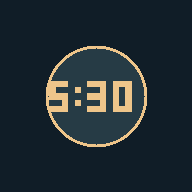
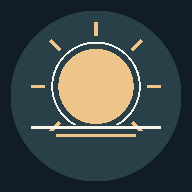
Make public app generic; document on-device privacy; refresh neutral branding

diff --git a/sw.js b/sw.js
@@ -1,1 +1,1 @@
-const CACHE='atomic-habits-v1';const ASSETS=['./','./index.html','./manifest.webmanifest','./icon-192.png','./icon-512.png'];self.addEventListener('install',e=>{e.waitUntil(caches.open(CACHE).then(c=>c.addAll(ASSETS)));self.skipWaiting()});self.addEventListener('activate',e=>{e.waitUntil(caches.keys().then(keys=>Promise.all(keys.filter(k=>k.startsWith('atomic-habits-')&&k!==CACHE).map(k=>caches.delete(k)))).then(()=>self.clients.claim()))});self.addEventListener('fetch',e=>{if(e.request.method!=='GET'||new URL(e.request.url).origin!==self.location.origin)return;e.respondWith(fetch(e.request).catch(()=>caches.match(e.request).then(r=>r||(e.request.mode==='navigate'?caches.match('./index.html'):Response.error()))))});
+const CACHE='atomic-habits-v2';const ASSETS=['./','./index.html','./manifest.webmanifest','./icon-192.png','./icon-512.png'];self.addEventListener('install',e=>{e.waitUntil(caches.open(CACHE).then(c=>c.addAll(ASSETS)));self.skipWaiting()});self.addEventListener('activate',e=>{e.waitUntil(caches.keys().then(keys=>Promise.all(keys.filter(k=>k.startsWith('atomic-habits-')&&k!==CACHE).map(k=>caches.delete(k)))).then(()=>self.clients.claim()))});self.addEventListener('fetch',e=>{if(e.request.method!=='GET'||new URL(e.request.url).origin!==self.location.origin)return;e.respondWith(fetch(e.request).catch(()=>caches.match(e.request).then(r=>r||(e.request.mode==='navigate'?caches.match('./index.html'):Response.error()))))});

diff --git a/README.md b/README.md
@@ -1,9 +1,29 @@
-# Atomic Habits — 05:30
-Aplicación web móvil (PWA) sin dependencias ni servidor. Registra hora de levantarse, sueño estimado, descansos, plan gradual de 21 días, historial, rachas y copias JSON.
+# Atomic Habits — Despertar
 
-## Publicar en GitHub Pages
-En Settings → Pages → Build and deployment, selecciona Deploy from a branch, main y / (root). Guarda. GitHub Pages gratuito requiere un repositorio público; los privados requieren un plan compatible. La URL de publicación aparece en Settings → Pages.
-En Safari del iPhone: Compartir → Añadir a pantalla de inicio. Tras una primera carga en línea, la aplicación funciona sin conexión.
+Aplicación web progresiva (PWA), gratuita y sin dependencias, para seguir un hábito de despertar temprano. Diseñada para uso individual desde el móvil: cada persona elige su horario; el repositorio **no contiene información ni registros de usuarios**.
+
+## Funciones
+- Configurar una hora objetivo, una hora habitual de partida y un objetivo orientativo de horas de descanso.
+- Elegir adaptación progresiva o comenzar directamente con la meta.
+- Registrar hora de despertar, hora de acostarse (opcional), días de recuperación y notas.
+- Ver el reto de 21 días, porcentaje de cumplimiento, rachas, historial y estimaciones de descanso.
+- Exportar e importar una copia de seguridad JSON.
+- Instalarla en la pantalla de inicio del móvil y utilizarla sin conexión tras la primera carga.
+
+## Publicación
+Este repositorio contiene solo el **código estático**. Para publicar desde GitHub Pages: `Settings → Pages → Deploy from a branch → main → / (root) → Save`. La dirección resultante aparecerá en GitHub Pages. No hace falta servidor de base de datos.
+
+## Uso en iPhone
+Abre la web publicada en Safari y pulsa `Compartir → Añadir a pantalla de inicio`. Inicia el registro **desde la app instalada** si quieres mantener todos los datos dentro de esa app. En iOS, Safari y una web añadida a la pantalla de inicio pueden tener contenedores de almacenamiento diferentes.
+
+Abre «Configuración y copia de seguridad» y personaliza tu hora objetivo. Los horarios que vienen por defecto son solo ejemplos; los valores que introduzcas **no se publican**.
 
 ## Privacidad y límites
-No hay datos personales en el código. Los registros quedan en localStorage del navegador; no se suben a GitHub. No hay sincronización entre dispositivos, Garmin ni alarmas. Exporta tu copia JSON antes de borrar datos del navegador. Los días sin registro no se cuentan en el porcentaje, pero interrumpen la racha; los días de recuperación no cuentan para el reto ni interrumpen la racha. Cambiar el plan recalcula los objetivos anteriores.
+- Los registros se almacenan en `localStorage` del navegador/dispositivo; **no hay servidor, cuenta, cookies analíticas, telemetría ni envío de registros a GitHub**.
+- GitHub Pages sirve los archivos públicos del proyecto. El proveedor puede recibir solicitudes técnicas normales al cargar la web, pero **no recibe tus registros** mediante esta aplicación.
+- No hay sincronización automática entre dispositivos. Cada navegador y cada instalación guardan sus propios registros.
+- Si borras los datos de la app/navegador, desinstalas la app o cambias de móvil, puedes perder los registros. Usa «Exportar copia JSON» para conservarlos y «Importar copia» para restaurarlos.
+- La exportación guarda un archivo donde la persona decida; si lo guarda en un servicio en la nube, ese archivo ya queda fuera del almacenamiento exclusivamente local.
+- Las horas de sueño son estimadas a partir de horarios introducidos manualmente, no son mediciones de un wearable ni sustituyen asesoramiento de salud.
+
+Consulta también [PRIVACY.md](PRIVACY.md).

diff --git a/PRIVACY.md b/PRIVACY.md
@@ -1,0 +1,18 @@
+# Privacidad — Atomic Habits
+
+Esta aplicación funciona como sitio web estático de código abierto. **No recopila, centraliza ni publica registros de hábitos.**
+
+### Qué se guarda
+La hora de levantarse, hora de acostarse si se facilita, fecha, tipo de día, notas, objetivos y ajustes se almacenan usando `localStorage` del navegador o de la aplicación instalada.
+
+### Qué no se envía
+No hay una API, base de datos, inicio de sesión, rastreadores publicitarios, herramientas analíticas ni servicios externos destinados a recibir los registros. El código no envía estos datos a GitHub ni a otros servidores. La carga normal de archivos del sitio se realiza mediante GitHub Pages.
+
+### Quién puede acceder
+Las personas que tengan acceso al dispositivo y al perfil de navegador podrían tener acceso a los datos locales. La aplicación **no cifra** el contenido de `localStorage`. Protege el teléfono con el bloqueo de pantalla.
+
+### Copias y eliminación
+Cada persona puede exportar sus propios registros en un archivo JSON. Ese archivo es responsabilidad de quien lo exporta y se puede guardar en el propio dispositivo o en otros servicios según su elección. Para eliminar los datos, se puede borrar el almacenamiento del sitio o de la aplicación instalada; no hay un servidor del proyecto del que solicitar su borrado.
+
+### Alcance
+Safari y la versión instalada pueden tener almacenes separados en iOS. Los datos no se sincronizan entre dispositivos ni se copian al código público del repositorio.
